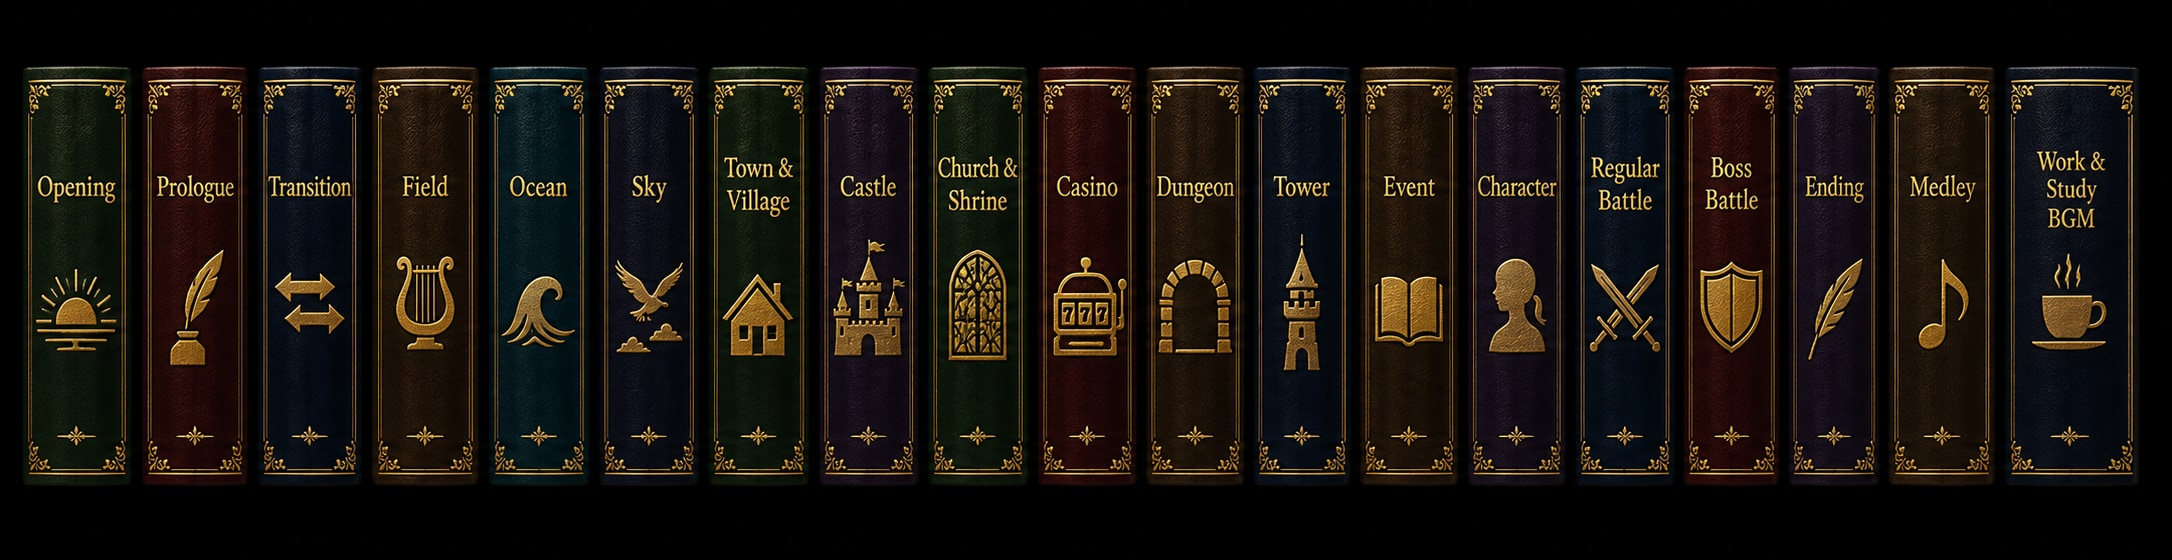
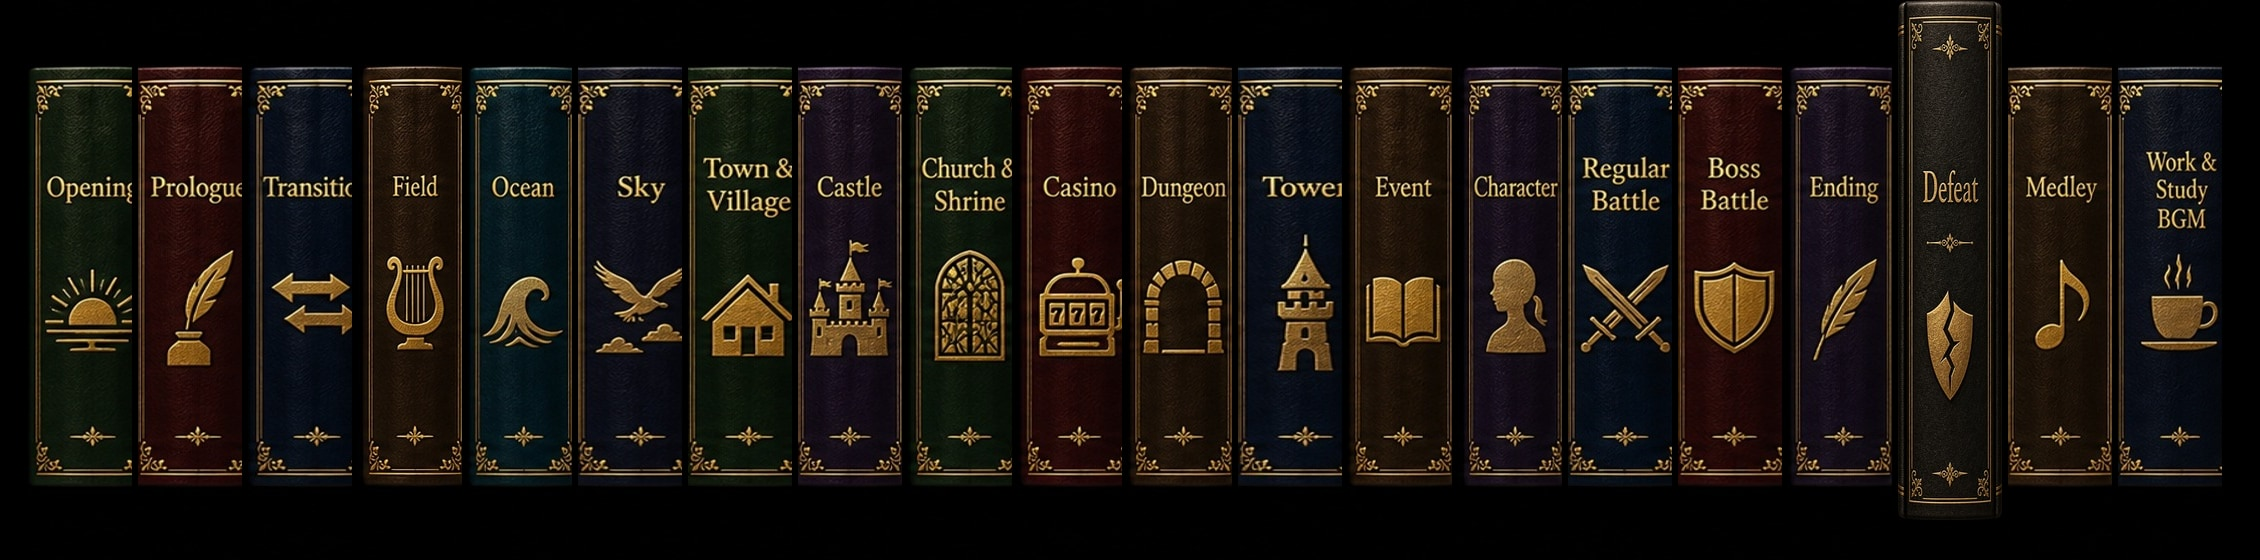
Align category bookshelf hitboxes

diff --git a/styles.css b/styles.css
@@ -1700,12 +1700,12 @@ h1 {
 }
 
 .bookcase-shelf-category {
-  aspect-ratio: 2172 / 560;
+  aspect-ratio: 2260 / 560;
   background-image: url("./assets/bookshelf-category-wide-reference.jpg");
 }
 
 .bookcase-shelf-category-en {
-  aspect-ratio: 2172 / 560;
+  aspect-ratio: 2260 / 560;
   background-image: url("./assets/bookshelf-category-wide-reference-en.jpg");
 }
 
@@ -2119,12 +2119,12 @@ h1 {
 }
 
 .bookcase-shelf-category {
-  aspect-ratio: 2172 / 560;
+  aspect-ratio: 2260 / 560;
   background-image: url("./assets/bookshelf-category-wide-reference.jpg");
 }
 
 .bookcase-shelf-category-en {
-  aspect-ratio: 2172 / 560;
+  aspect-ratio: 2260 / 560;
   background-image: url("./assets/bookshelf-category-wide-reference-en.jpg");
 }
 
@@ -2173,8 +2173,8 @@ h1 {
 .book-spine-category {
   top: 2.5%;
   bottom: 5.5%;
-  left: calc(1.3% + (var(--book-index) * 4.86%));
-  width: 4.98%;
+  left: calc(1.24% + (var(--book-index) * 4.867%));
+  width: 4.6%;
 }
 
 @media (max-width: 720px) {
@@ -2221,14 +2221,14 @@ h1 {
 
   .bookcase-shelf-category {
     min-width: 1700px;
-    aspect-ratio: 2172 / 560;
+    aspect-ratio: 2260 / 560;
     background-size: 100% 100%;
     background-position: center;
   }
 
   .bookcase-shelf-category-en {
     min-width: 1700px;
-    aspect-ratio: 2172 / 560;
+    aspect-ratio: 2260 / 560;
     background-size: 100% 100%;
     background-position: center;
   }
